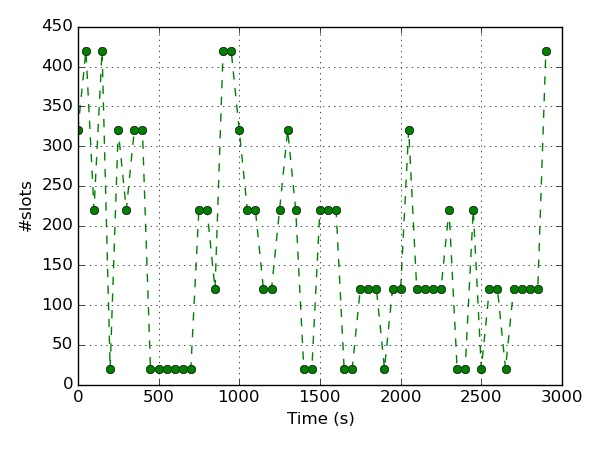
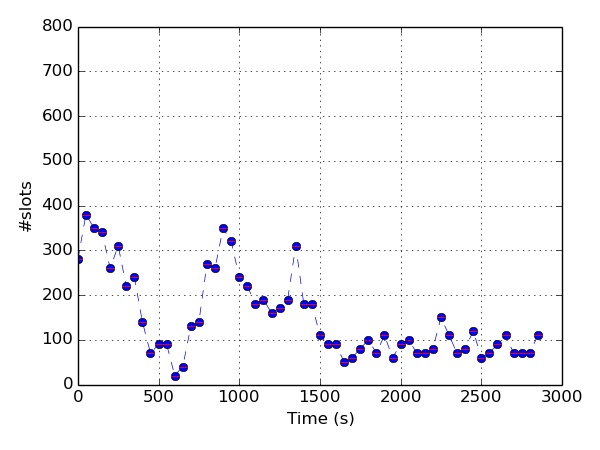
laptop

diff --git a/1-11_s_sw_RL/3-2/epsilon_plot_study1.py b/1-11_s_sw_RL/3-2/epsilon_plot_study1.py
@@ -74,8 +74,10 @@ def plot_error(figure_name, x_data1, data1, data2, data3, y_error, data_dim, dat
 	fig = plt.gcf()
 	fig.set_size_inches(6, 4.5)
 	
-	plt.plot(x_data1, data1, linestyle="dashed", marker="o", color="green")
-	plt.errorbar(x_data1, data1,yerr=y_error, linestyle="None", marker="None", color="green")
+	textsize = 9
+	plt.plot(x_data1, data1, linestyle="dashed", marker="o", color='blue', linewidth=0.5)
+	
+	plt.errorbar(x_data1, data1,yerr=y_error, linestyle="None", marker="None", color="red")
 	#plt.plot(data2)
 	#plt.plot(data3)
 	if(data_type == 1):
@@ -85,10 +87,34 @@ def plot_error(figure_name, x_data1, data1, data2, data3, y_error, data_dim, dat
 	if(data_type == 2):
 		plt.xlabel('Time (s)')
 		plt.ylabel('#slots')
+		plt.ylim(0.0,800)
 	plt.grid()
 	plt.tight_layout()
 	plt.savefig(figure_name)
-	plt.close()	
+	plt.close()
+
+# subplot
+def plot_error_sub(plt, subplot_seq, figure_name, x_data1, data1, data2, data3, y_error, data_dim, data_type):
+	
+	plt.subplot(subplot_seq)
+	
+	textsize = 9
+	plt.plot(x_data1, data1, linestyle="dashed", marker="o", color='blue', linewidth=0.5)
+	
+	plt.errorbar(x_data1, data1,yerr=y_error, linestyle="None", marker="None", color="red")
+	#plt.plot(data2)
+	#plt.plot(data3)
+	if(data_type == 1):
+		plt.xlabel('Time (s)')
+		plt.ylabel('Overselection Rate')
+		plt.ylim(0.0,0.03)
+	if(data_type == 2):
+		plt.xlabel('Time (s)')
+		plt.ylabel('#slots')
+		plt.ylim(0.0,800)
+	plt.grid()
+	plt.tight_layout()
+
 		
 def column(matrix, i):
     return [row[i] for row in matrix]
@@ -233,7 +259,7 @@ recv2_stable_mean = 0
 recv3_stable_mean = 0
 recv4_stable_mean = 0
 
-for row_i in range(0,len(recv1_2D[0])-5):
+for row_i in range(0,len(recv1_2D[0])-1):
 	col_value = column(recv1_2D, row_i);
 	recv1_avg.append(np.mean(col_value))
 	recv1_std.append(np.std(col_value))
@@ -282,6 +308,23 @@ plot_error(figure_name, time_data[0::100], recv3_avg[0::100], recv2, recv3, recv
 figure_name = 'figure/std_'+prefix +str(3)+count_str+str(i)+alpha_str+str(alpha)+gamma_str+str(gamma)+ebuse_str+str(ebuse)+'.jpg'
 plot_error(figure_name, time_data[0::100], recv4_avg[0::100], recv3, recv4, recv4_std[0::100], 1, 1)
 
+# subplot
+
+fig = plt.gcf()
+fig.set_size_inches(8, 6.5)
+
+figure_name = 'figure/std_avg.jpg'
+plot_error_sub(plt, 221, figure_name, time_data[0::100], recv1_avg[0::100], recv2, recv3, recv1_std[0::100], 1, 1)
+
+plot_error_sub(plt, 222, figure_name, time_data[0::100], recv2_avg[0::100], recv2, recv3, recv2_std[0::100], 1, 1)
+
+
+plot_error_sub(plt, 223, figure_name, time_data[0::100], recv3_avg[0::100], recv2, recv3, recv3_std[0::100], 1, 1)
+
+plot_error_sub(plt, 224, figure_name, time_data[0::100], recv4_avg[0::100], recv3, recv4, recv4_std[0::100], 1, 1)
+
+plt.savefig(figure_name)
+plt.close()
 # compute total sample variance
 recv1_stable_std_t = math.sqrt(recv1_stable_std/(len(recv1_2D[0])-5-max_stime_std))
 recv2_stable_std_t = math.sqrt(recv2_stable_std/(len(recv1_2D[0])-5-max_stime_std))
@@ -418,23 +461,61 @@ for row_i in range(0,len(recv1_2D[0])-1):
 	#print column(recv1_2D, row_i)
 
 inv = 10;
+time_inv = 0;
+time_inv_vec = []
+recv1_avg_inv = []
+recv1_std_inv = []
+recv2_avg_inv = []
+recv2_std_inv = []
+recv3_avg_inv = []
+recv3_std_inv = []
+recv4_avg_inv = []
+recv4_std_inv = []
+# sliding average over over inv elts
+for row_i in range(0,len(recv1_2D[0])-inv):
+	print recv1_avg[time_inv:time_inv+inv]
+	recv1_avg_inv.append(np.mean(recv1_avg[time_inv:time_inv+inv]));
+	recv2_avg_inv.append(np.mean(recv2_avg[time_inv:time_inv+inv]));
+	recv3_avg_inv.append(np.mean(recv3_avg[time_inv:time_inv+inv]));
+	recv4_avg_inv.append(np.mean(recv4_avg[time_inv:time_inv+inv]));
+
+	recv1_std_inv.append(0);
+	recv2_std_inv.append(0);
+	recv3_std_inv.append(0);
+	recv4_std_inv.append(0);
+	
+	time_inv_vec.append(time_inv*5);
+	time_inv = time_inv + 1;
+print recv1_avg_inv
 figure_name = 'figure/std_res_'+prefix +str(0)+count_str+str(i)+alpha_str+str(alpha)+gamma_str+str(gamma)+ebuse_str+str(ebuse)+'.jpg'
-plot_error(figure_name, time_data[0::inv], recv1_avg[0::inv], recv2, recv3, recv1_std[0::inv], 1, 2)
+plot_error(figure_name, time_inv_vec[0::inv], recv1_avg_inv[0::inv], recv2, recv3, recv1_std_inv[0::inv], 1, 2)
 
 figure_name = 'figure/std_res_'+prefix +str(1)+count_str+str(i)+alpha_str+str(alpha)+gamma_str+str(gamma)+ebuse_str+str(ebuse)+'.jpg'
-plot_error(figure_name, time_data[0::inv], recv2_avg[0::inv], recv2, recv3, recv2_std[0::inv], 1, 2)
+#plot_error(figure_name, time_data[0::inv], recv2_avg[0::inv], recv2, recv3, recv2_std[0::inv], 1, 2)
+plot_error(figure_name, time_inv_vec[0::inv], recv2_avg_inv[0::inv], recv2, recv3, recv2_std_inv[0::inv], 1, 2)
 
 figure_name = 'figure/std_res_'+prefix +str(2)+count_str+str(i)+alpha_str+str(alpha)+gamma_str+str(gamma)+ebuse_str+str(ebuse)+'.jpg'
-plot_error(figure_name, time_data[0::inv], recv3_avg[0::inv], recv2, recv3, recv3_std[0::inv], 1, 2)
+plot_error(figure_name, time_inv_vec[0::inv], recv3_avg_inv[0::inv], recv2, recv3, recv3_std_inv[0::inv], 1, 2)
 
 figure_name = 'figure/std_res_'+prefix +str(3)+count_str+str(i)+alpha_str+str(alpha)+gamma_str+str(gamma)+ebuse_str+str(ebuse)+'.jpg'
-plot_error(figure_name, time_data[0::inv], recv4_avg[0::inv], recv2, recv3, recv4_std[0::inv], 1, 2)
+plot_error(figure_name, time_inv_vec[0::inv], recv4_avg_inv[0::inv], recv2, recv3, recv4_std_inv[0::inv], 1, 2)
 
-figure_name = 'figure/std_res_'+prefix +str(4)+count_str+str(i)+alpha_str+str(alpha)+gamma_str+str(gamma)+ebuse_str+str(ebuse)+'.jpg'
+# subfigure
+fig = plt.gcf()
+fig.set_size_inches(8, 6.5)
 
+figure_name = 'figure/std_res.jpg'
+plot_error_sub(plt, 221, figure_name, time_inv_vec[0::inv], recv1_avg_inv[0::inv], recv2, recv3, recv1_std_inv[0::inv], 1, 2)
 
+#plot_error(figure_name, time_data[0::inv], recv2_avg[0::inv], recv2, recv3, recv2_std[0::inv], 1, 2)
+plot_error_sub(plt, 222, figure_name, time_inv_vec[0::inv], recv2_avg_inv[0::inv], recv2, recv3, recv2_std_inv[0::inv], 1, 2)
 
+plot_error_sub(plt, 223, figure_name, time_inv_vec[0::inv], recv3_avg_inv[0::inv], recv2, recv3, recv3_std_inv[0::inv], 1, 2)
 
+plot_error_sub(plt, 224, figure_name, time_inv_vec[0::inv], recv4_avg_inv[0::inv], recv2, recv3, recv4_std_inv[0::inv], 1, 2)
+
+plt.savefig(figure_name)
+plt.close()
 
 
 
